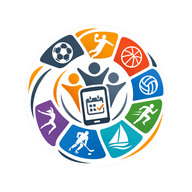
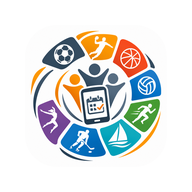
Version unique (version.js) lue par le service worker + nouveautes/bandeau ; icônes Gestion AS arrondies
Claude-Session: https://claude.ai/code/session_01DWMzvDjuQqdn6i5FnQMur8

Changed region(s): [[0.125, 0.125, 0.875, 0.875]]

diff --git a/sw.js b/sw.js
@@ -1,4 +1,5 @@
-const C='as-appel-v22',F=['footer.js','nouveautes.js','nouveautes.json','./','index.html','style.css','app.js','manifest.json','confidentialite.html','contact.html','logo.png','logo-transparent.png','icon-192.png',
+importScripts('version.js');
+const C='as-appel-v'+APP_VERSION,F=['version.js','footer.js','nouveautes.js','nouveautes.json','./','index.html','style.css','app.js','manifest.json','confidentialite.html','contact.html','logo.png','logo-transparent.png','icon-192.png',
 'lib/qrcode-generator-1.4.4.js','lib/jsQR-1.4.0.js','lib/jspdf-2.5.1.umd.min.js'];
 self.addEventListener('install',e=>e.waitUntil(caches.open(C).then(c=>Promise.all(F.map(u=>c.add(u).catch(()=>0)))).then(()=>self.skipWaiting())));
 self.addEventListener('activate',e=>e.waitUntil(caches.keys().then(k=>Promise.all(k.filter(x=>x!==C).map(x=>caches.delete(x)))).then(()=>clients.claim())));

diff --git a/index.html b/index.html
@@ -4,6 +4,7 @@
 <title>Gestion AS via ENT</title>
 <link rel="manifest" href="manifest.json"><meta name="theme-color" content="#ea580c">
 <link rel="icon" href="icon-192.png"><link rel="apple-touch-icon" href="icon-maskable-192.png">
+<script src="version.js"></script>
 <script>addEventListener("beforeinstallprompt",function(e){e.preventDefault();window.dip=e;dispatchEvent(new Event("dipready"))})</script>
 <link rel="stylesheet" href="style.css?v=17">
 <style id="titre-moderne">/* Titre en casse mixte + logo mis en valeur, aux couleurs du logo */

diff --git a/version.js b/version.js
@@ -1,0 +1,1 @@
+const APP_VERSION="1.1.1"; // ← seul endroit à modifier pour changer la version (cache hors ligne + détection des mises à jour)
